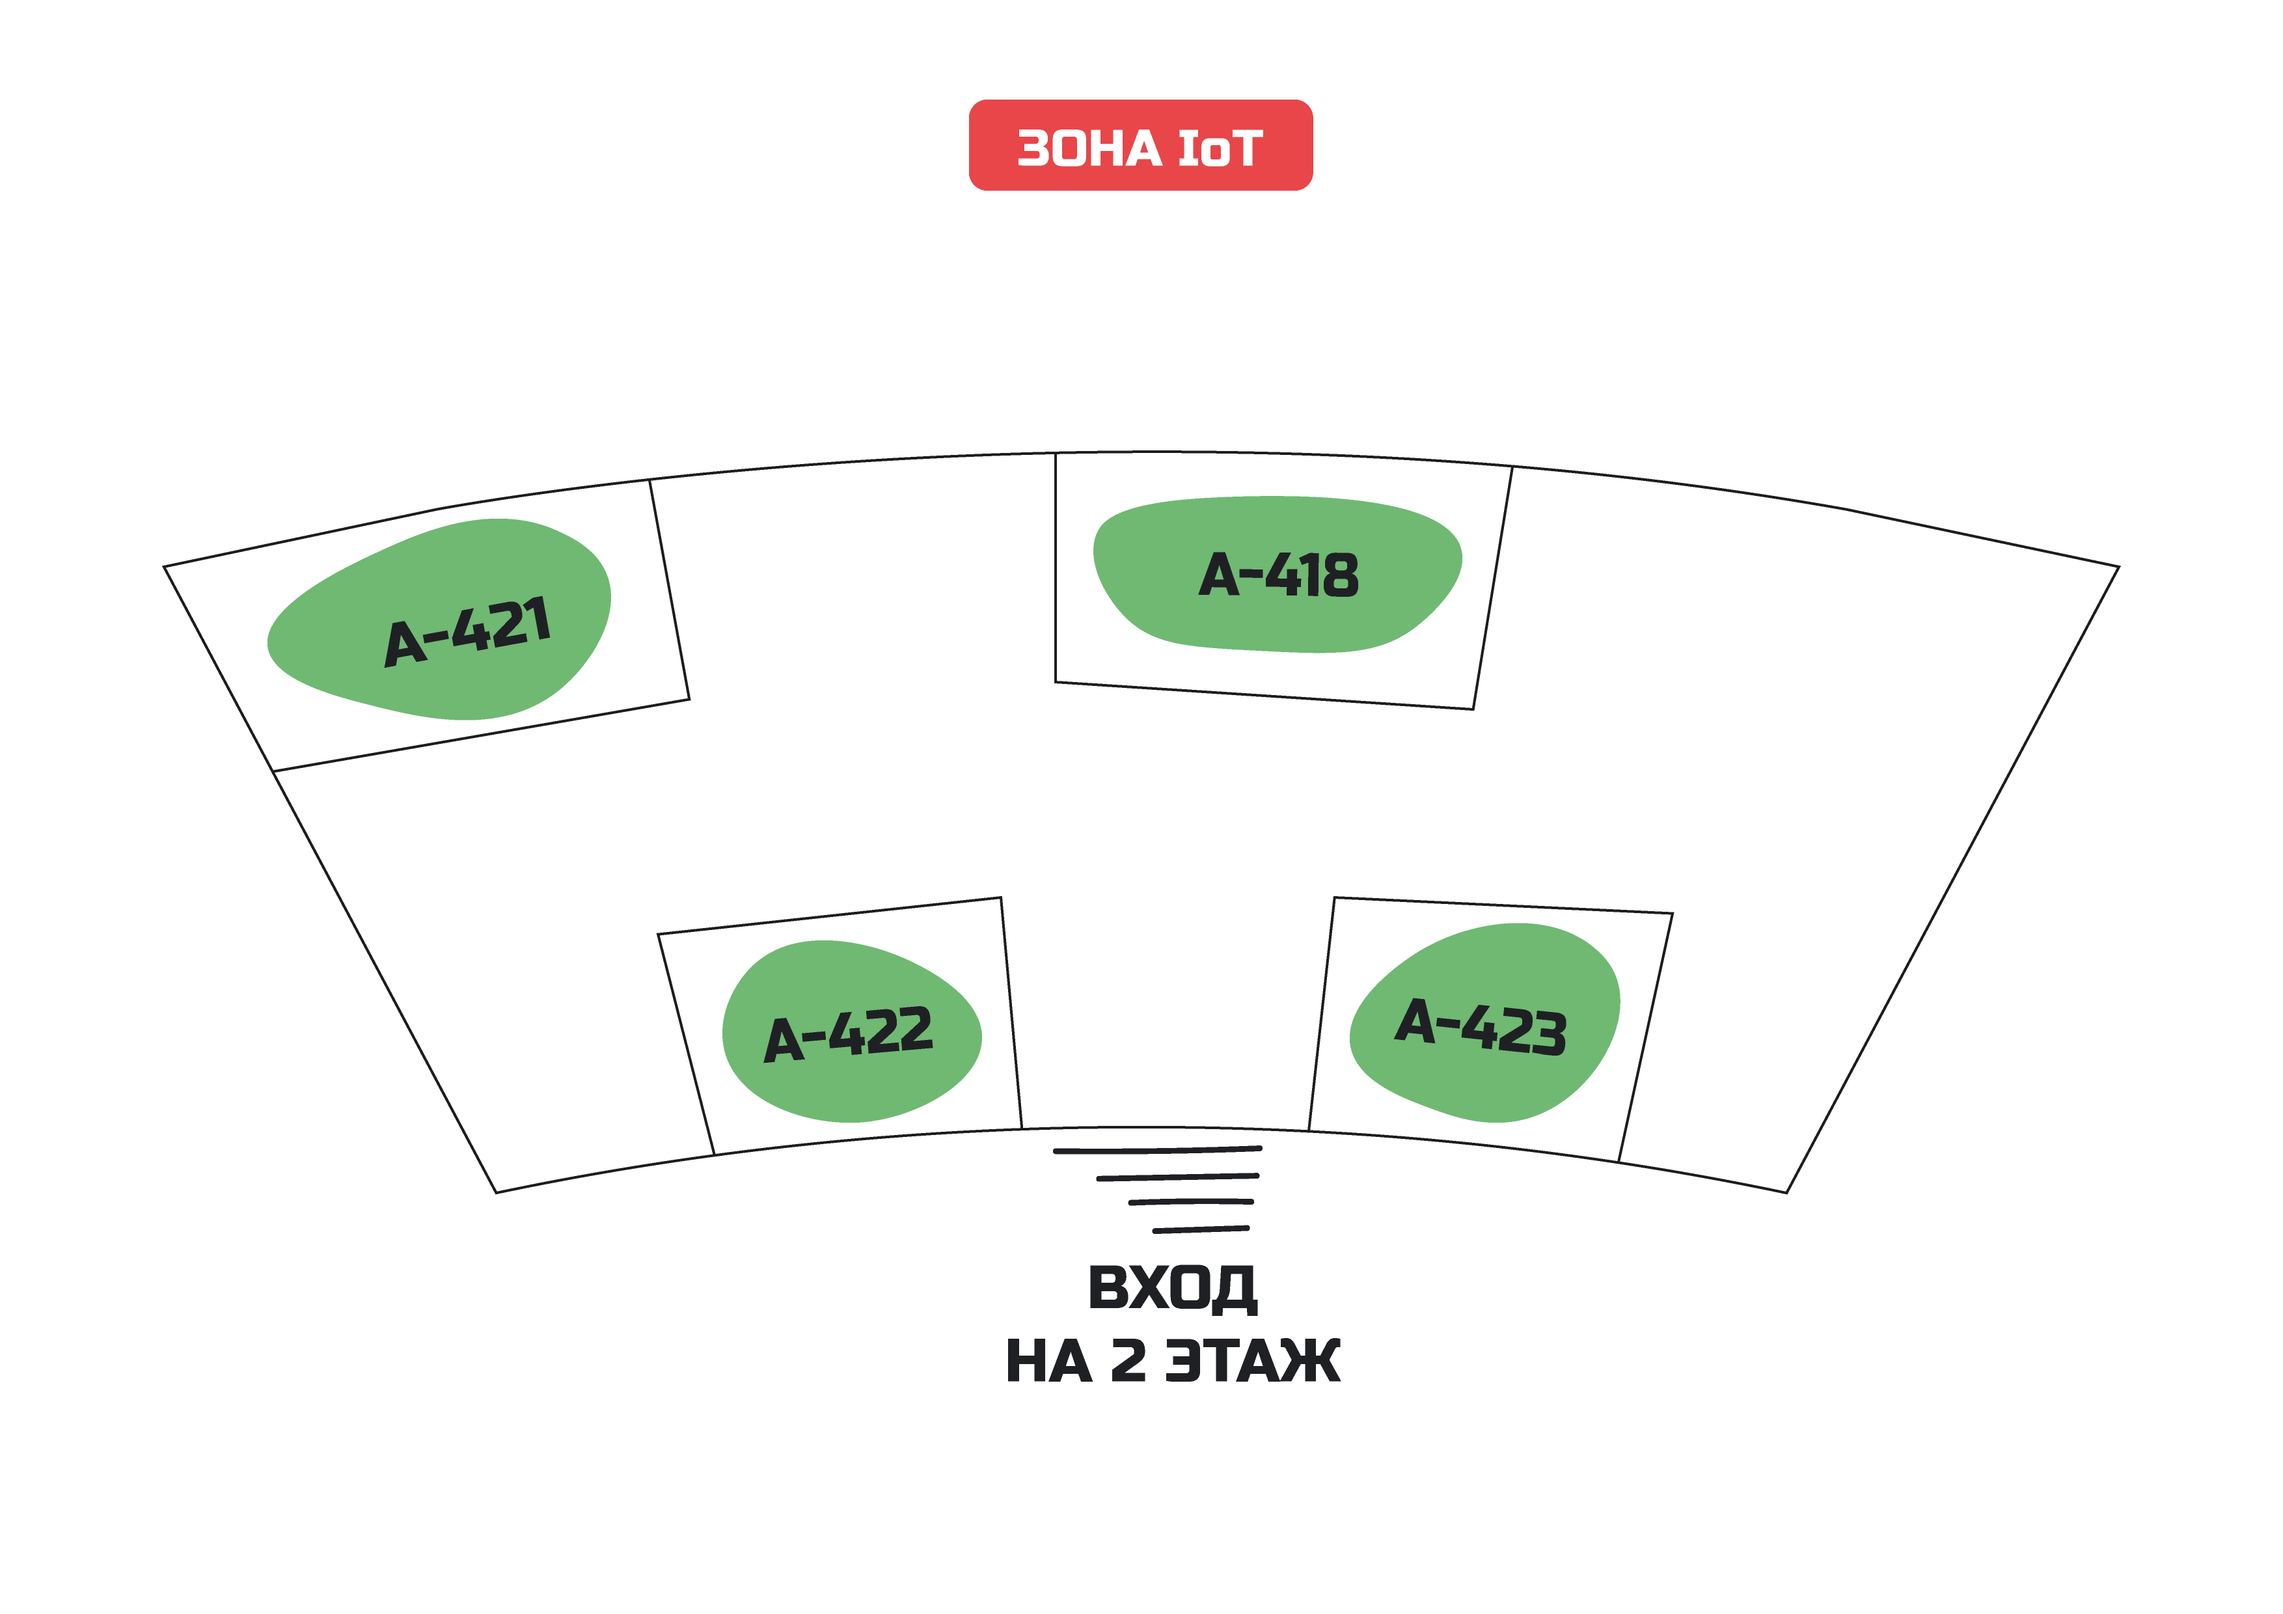
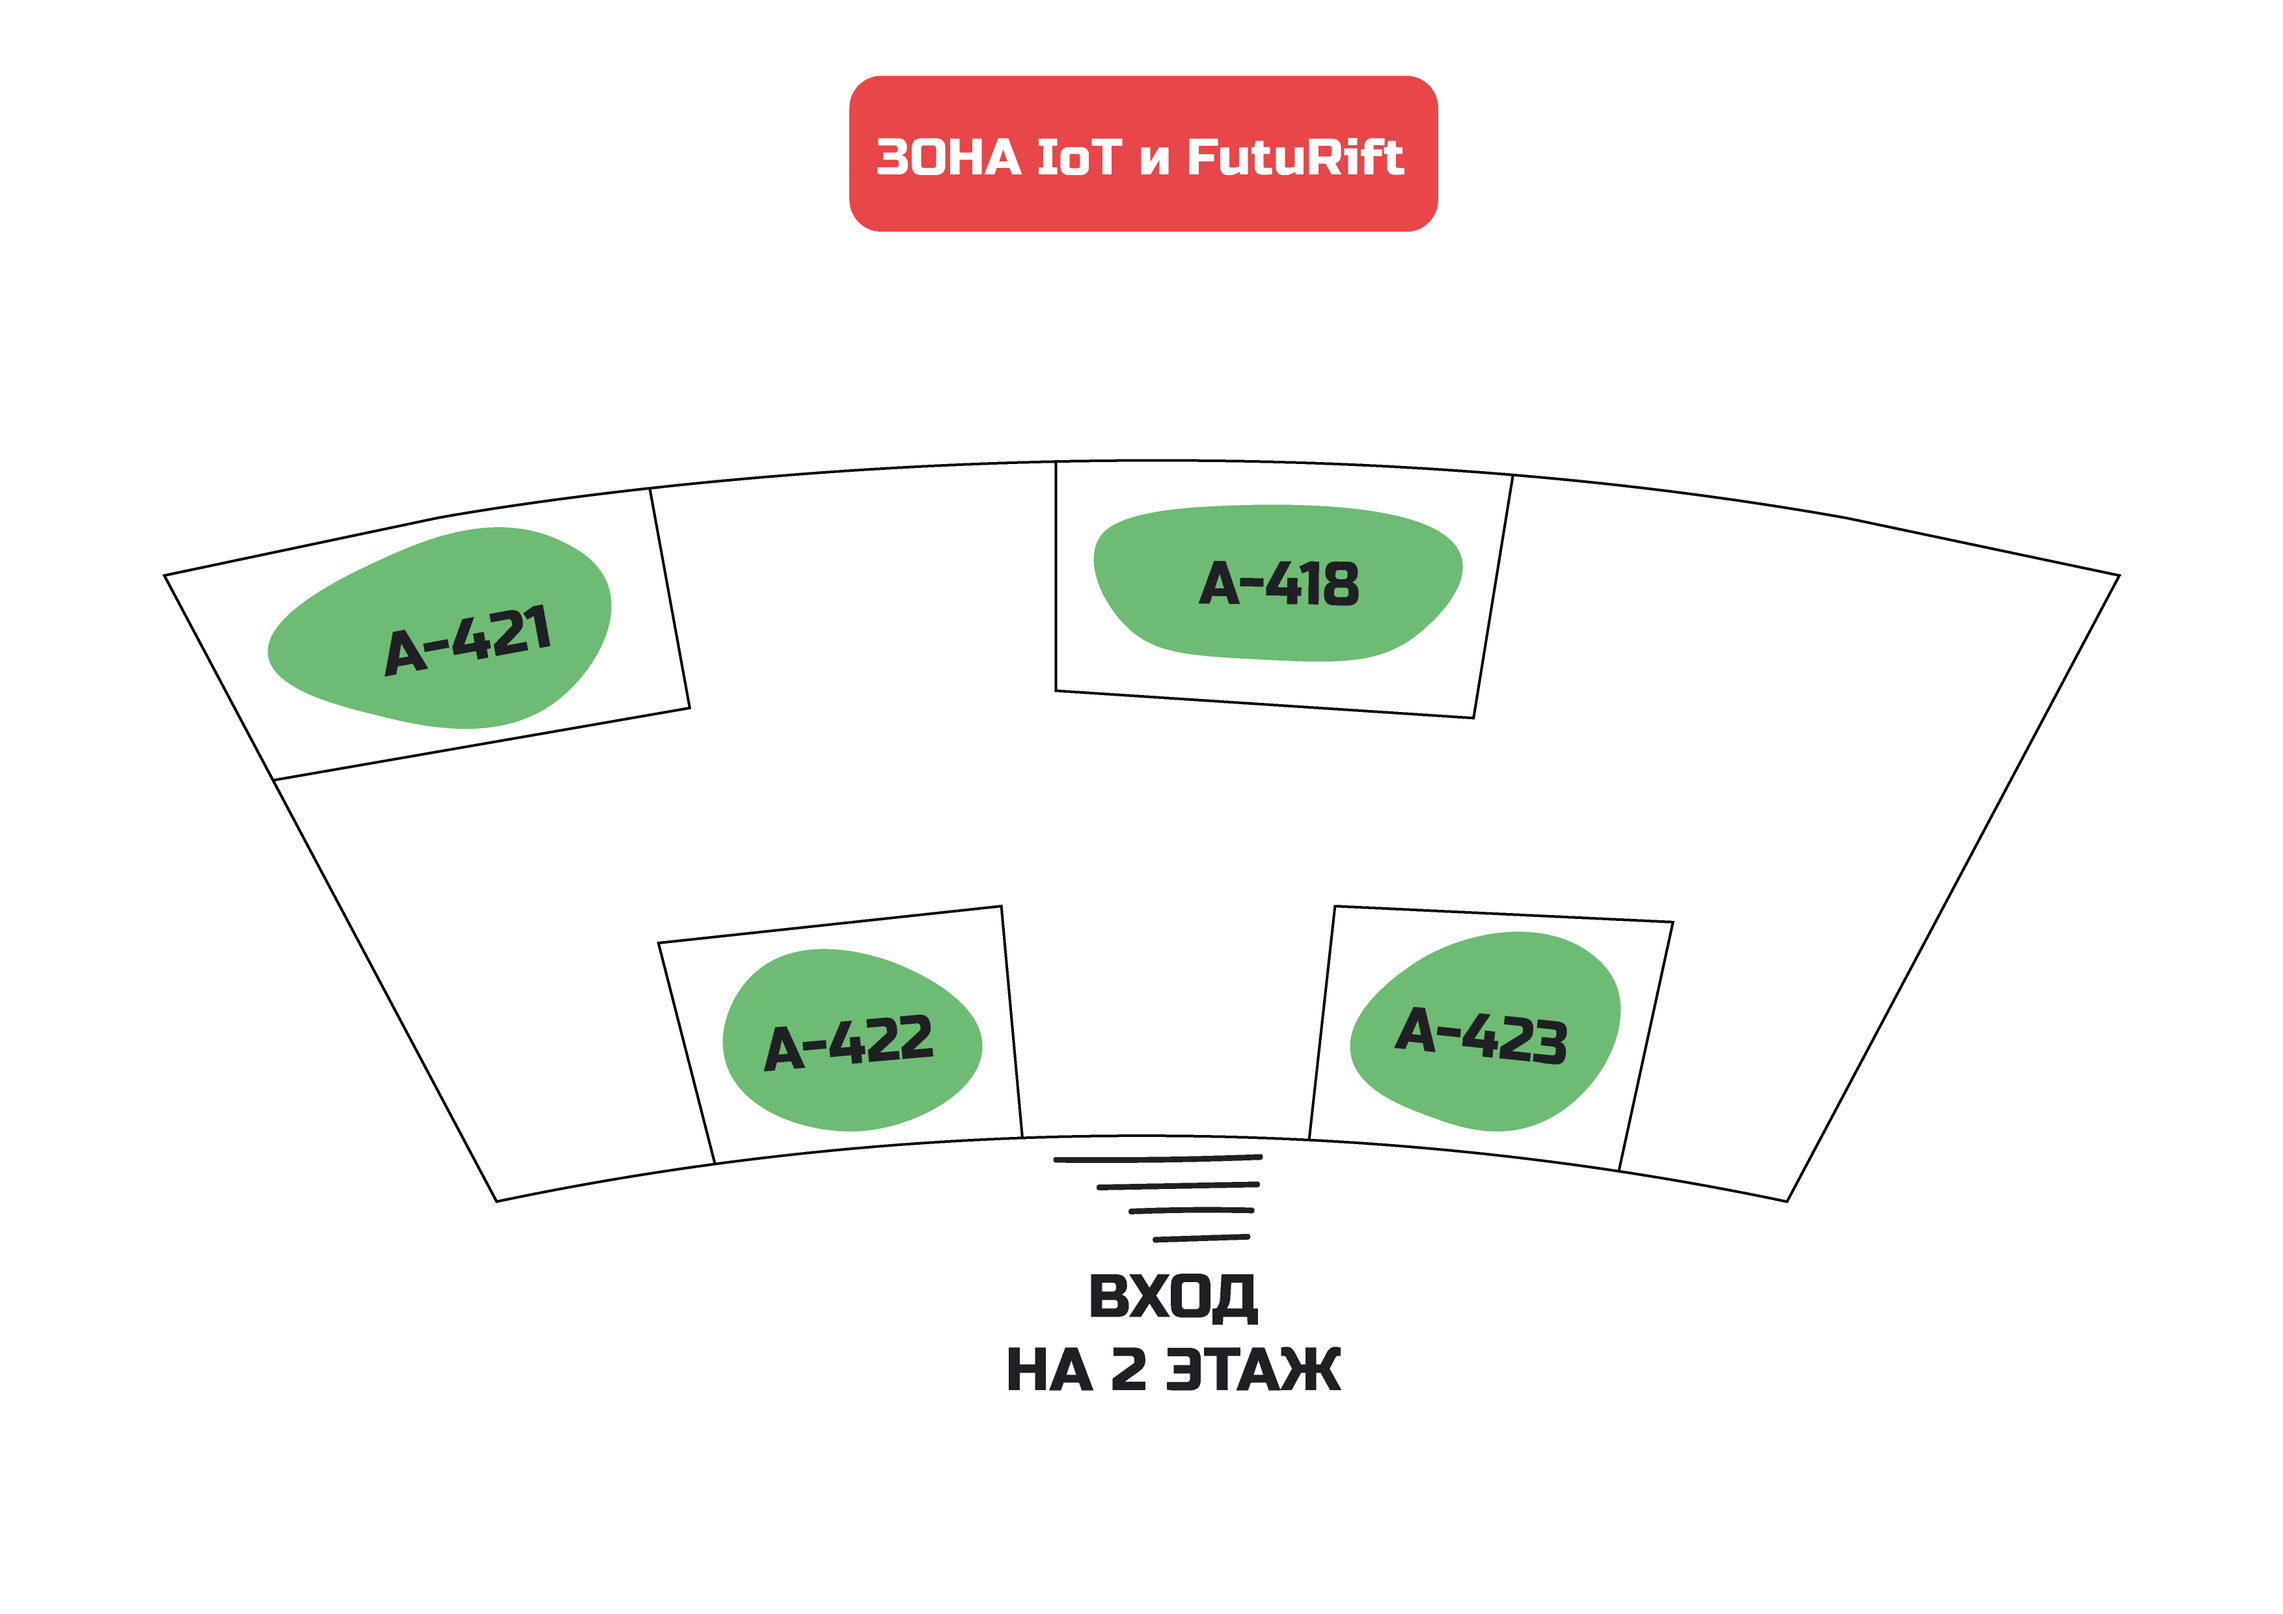
update maps

diff --git a/map.html b/map.html
@@ -64,7 +64,7 @@
 
     <section id="map-iot" class="main special">
       <header class="major">
-        <h2>Зона IoT</h2>
+        <h2>Зона IoT и FutuRift</h2>
       </header>
       <div class="map-img">
         <img src="./images/map/map-iot.png" alt="Карта зоны IoT">
